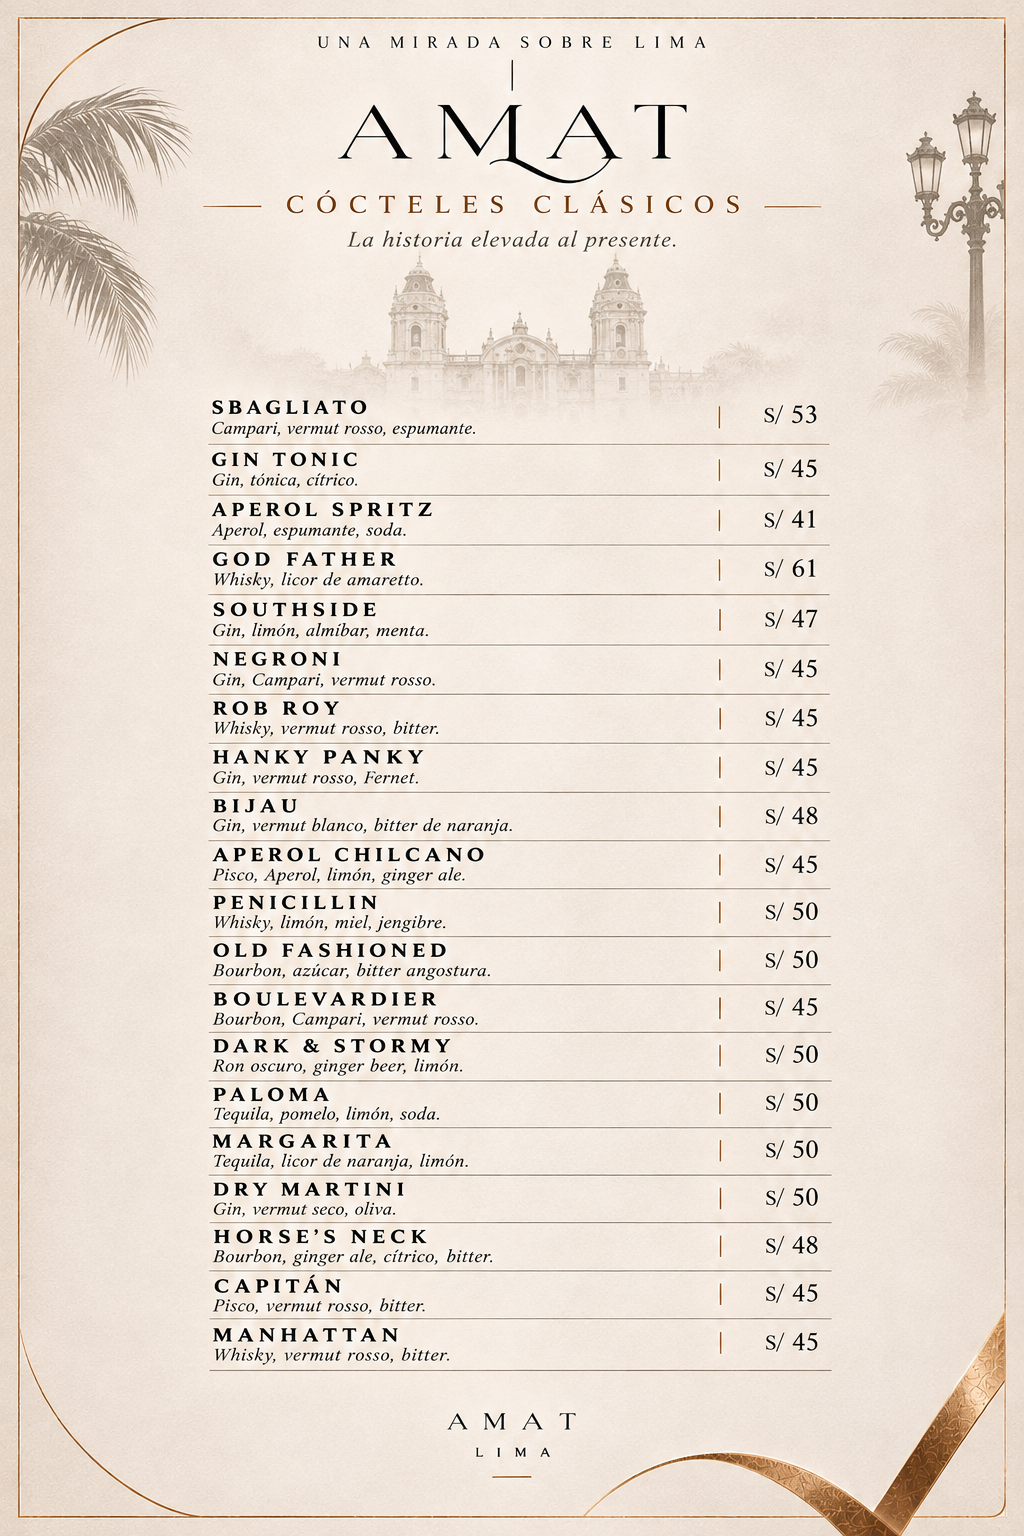
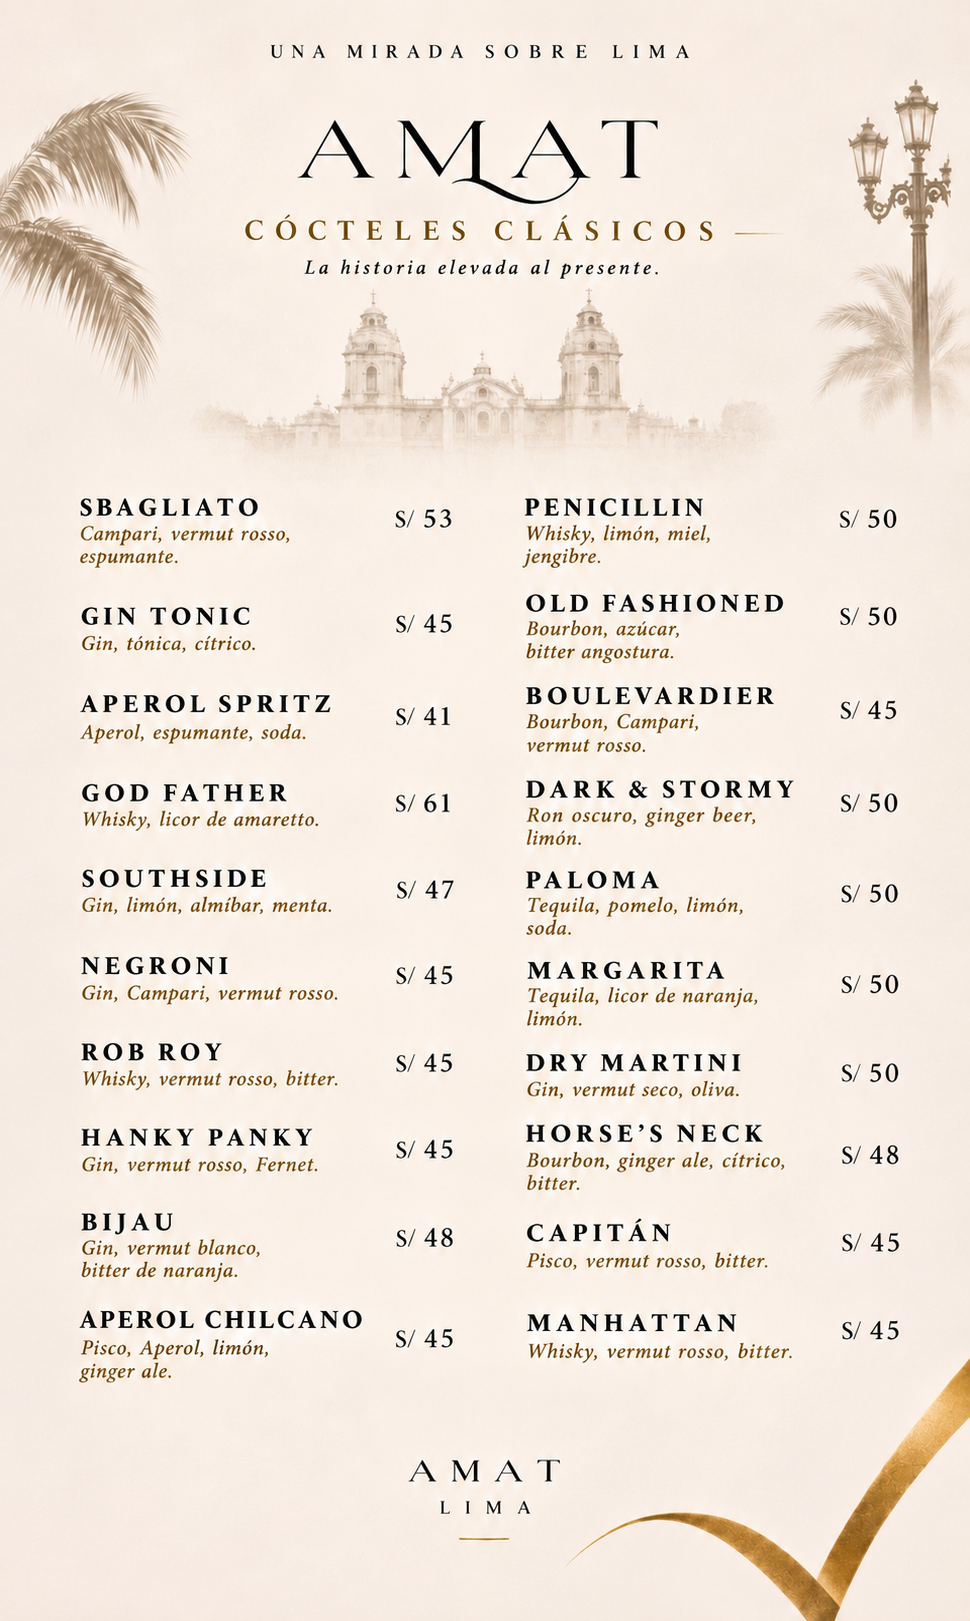
Cartas actualizadas y página única con pestañas
Claude-Session: https://claude.ai/code/session_01MFbuEAzkbLsV6ertVzvqHA

diff --git a/index.html b/index.html
@@ -1,7 +1,79 @@
 <!DOCTYPE html>
-<html lang="es"><head><meta charset="utf-8"><meta name="viewport" content="width=device-width, initial-scale=1">
-<title>Carta</title>
-<style>body{margin:0;background:#f1f0eb;font-family:Georgia,serif;color:#3e3228;text-align:center}
-main{max-width:520px;margin:0 auto;padding:60px 24px}a{display:block;margin:18px 0;padding:18px;border:1px solid #c9b99a;color:#3e3228;text-decoration:none;font-size:20px;letter-spacing:2px}</style>
-</head><body><main><p style="letter-spacing:4px;font-size:13px">UNA MIRADA SOBRE LIMA</p>
-<a href="nikkei/">BARRA NIKKEI</a><a href="fondos/">ENTRADAS Y FONDOS</a><a href="vinos/">VINOS Y ESPUMANTES</a><a href="cocteles/">CÓCTELES CLÁSICOS</a></main></body></html>
+<html lang="es">
+<head>
+<meta charset="utf-8">
+<meta name="viewport" content="width=device-width, initial-scale=1">
+<title>Amat · Carta</title>
+<link rel="preconnect" href="https://fonts.googleapis.com">
+<link rel="preconnect" href="https://fonts.gstatic.com" crossorigin>
+<link href="https://fonts.googleapis.com/css2?family=Cormorant+Garamond:wght@500;600&family=Inter:wght@400;500&display=swap" rel="stylesheet">
+<style>
+  :root{--bg:#f1f0eb;--ink:#3e3228;--gold:#9a7a3e;--line:#d9cfbd}
+  *{box-sizing:border-box}
+  html,body{margin:0;background:var(--bg);color:var(--ink)}
+  header{text-align:center;padding:22px 16px 10px}
+  header .tag{font:500 10px/1 Inter,system-ui,sans-serif;letter-spacing:.42em;color:#6b5a48}
+  header h1{margin:8px 0 0;font:500 42px/1 "Cormorant Garamond",Georgia,serif;letter-spacing:.28em;padding-left:.28em}
+  nav{position:sticky;top:0;z-index:5;background:rgba(241,240,235,.96);backdrop-filter:blur(6px);
+      border-top:1px solid var(--line);border-bottom:1px solid var(--line)}
+  nav .tabs{display:flex;max-width:620px;margin:0 auto;overflow-x:auto;scrollbar-width:none}
+  nav .tabs::-webkit-scrollbar{display:none}
+  nav a{flex:1 0 auto;text-align:center;padding:14px 12px 12px;white-space:nowrap;text-decoration:none;
+        font:500 11px/1 Inter,system-ui,sans-serif;letter-spacing:.14em;text-transform:uppercase;color:#7d6c5a;
+        border-bottom:2px solid transparent}
+  nav a[aria-current="page"]{color:var(--ink);border-bottom-color:var(--gold)}
+  main{max-width:620px;margin:0 auto;padding:12px 0 28px}
+  section{display:none}
+  section.on{display:block}
+  img{display:block;width:100%;height:auto;margin:0 auto 10px}
+  footer{text-align:center;padding:6px 0 26px;font:500 10px/1 Inter,system-ui,sans-serif;letter-spacing:.42em;color:#8a7966}
+</style>
+</head>
+<body>
+<header>
+  <div class="tag">UNA MIRADA SOBRE LIMA</div>
+  <h1>AMAT</h1>
+</header>
+<nav><div class="tabs" role="tablist">
+  <a href="#nikkei" data-t="nikkei">Barra Nikkei</a>
+  <a href="#fondos" data-t="fondos">Entradas y Fondos</a>
+  <a href="#vinos" data-t="vinos">Vinos</a>
+  <a href="#cocteles" data-t="cocteles">Cócteles</a>
+</div></nav>
+<main>
+  <section id="s-nikkei">
+    <img src="nikkei/pagina1.jpg" alt="Barra Nikkei: sashimis, nigiris, tiraditos y makis">
+    <img src="nikkei/pagina2.jpg" alt="Barra Nikkei: makis, postres y panes" loading="lazy">
+  </section>
+  <section id="s-fondos">
+    <img src="fondos/pagina1.jpg" alt="Entradas y fondos" loading="lazy">
+    <img src="fondos/pagina2.jpg" alt="Piqueos" loading="lazy">
+  </section>
+  <section id="s-vinos">
+    <img src="vinos/pagina1.png" alt="Espumantes, vinos blancos, rosados y tintos" loading="lazy">
+    <img src="vinos/pagina2.png" alt="Vinos tintos y alta gama" loading="lazy">
+  </section>
+  <section id="s-cocteles">
+    <img src="cocteles/pagina1.png" alt="Cócteles clásicos" loading="lazy">
+    <img src="cocteles/pagina2.png" alt="Cócteles de autor y mocktails" loading="lazy">
+  </section>
+</main>
+<footer>AMAT · LIMA</footer>
+<script>
+  var ids=["nikkei","fondos","vinos","cocteles"];
+  function show(){
+    var h=(location.hash||"").slice(1); if(ids.indexOf(h)<0) h="nikkei";
+    ids.forEach(function(i){
+      document.getElementById("s-"+i).classList.toggle("on",i===h);
+      var a=document.querySelector('nav a[data-t="'+i+'"]');
+      if(i===h){a.setAttribute("aria-current","page");a.scrollIntoView({inline:"center",block:"nearest"});}
+      else a.removeAttribute("aria-current");
+    });
+  }
+  document.querySelectorAll("nav a").forEach(function(a){
+    a.addEventListener("click",function(e){e.preventDefault();history.replaceState(null,"","#"+a.dataset.t);show();window.scrollTo({top:0});});
+  });
+  window.addEventListener("hashchange",show); show();
+</script>
+</body>
+</html>

diff --git a/vinos/index.html b/vinos/index.html
@@ -1,13 +1,7 @@
 <!DOCTYPE html>
-<html lang="es"><head><meta charset="utf-8">
-<meta name="viewport" content="width=device-width, initial-scale=1">
+<html lang="es"><head><meta charset="utf-8"><meta name="viewport" content="width=device-width, initial-scale=1">
 <title>Carta Vinos y Espumantes</title>
-<style>
- html,body{margin:0;background:#f1f0eb;}
- main{max-width:620px;margin:0 auto;padding:0 0 24px}
- img{display:block;width:100%;height:auto;margin:0 auto 10px;box-shadow:0 1px 6px rgba(0,0,0,.06)}
- h1{position:absolute;left:-9999px}
-</style></head><body><main>
-<h1>Carta Vinos y Espumantes</h1>
-<img src="pagina1.jpg" alt="Vinos y espumantes: espumantes, blancos, rosados y tintos"><img src="pagina2.jpg" alt="Vinos tintos y vinos de alta gama">
+<style>html,body{margin:0;background:#f1f0eb}main{max-width:620px;margin:0 auto;padding:0 0 24px}img{display:block;width:100%;height:auto;margin:0 auto 10px}</style>
+</head><body><main>
+<img src="pagina1.png" alt="Espumantes, vinos blancos, rosados y tintos"><img src="pagina2.png" alt="Vinos tintos y alta gama">
 </main></body></html>

diff --git a/cocteles/index.html b/cocteles/index.html
@@ -1,13 +1,7 @@
 <!DOCTYPE html>
-<html lang="es"><head><meta charset="utf-8">
-<meta name="viewport" content="width=device-width, initial-scale=1">
-<title>Carta Cócteles Clásicos</title>
-<style>
- html,body{margin:0;background:#f1f0eb;}
- main{max-width:620px;margin:0 auto;padding:0 0 24px}
- img{display:block;width:100%;height:auto;margin:0 auto 10px;box-shadow:0 1px 6px rgba(0,0,0,.06)}
- h1{position:absolute;left:-9999px}
-</style></head><body><main>
-<h1>Carta Cócteles Clásicos</h1>
-<img src="pagina1.png" alt="Cócteles clásicos">
+<html lang="es"><head><meta charset="utf-8"><meta name="viewport" content="width=device-width, initial-scale=1">
+<title>Carta Cócteles</title>
+<style>html,body{margin:0;background:#f1f0eb}main{max-width:620px;margin:0 auto;padding:0 0 24px}img{display:block;width:100%;height:auto;margin:0 auto 10px}</style>
+</head><body><main>
+<img src="pagina1.png" alt="Cócteles clásicos"><img src="pagina2.png" alt="Cócteles de autor y mocktails">
 </main></body></html>

diff --git a/nikkei/index.html b/nikkei/index.html
@@ -1,13 +1,7 @@
 <!DOCTYPE html>
-<html lang="es"><head><meta charset="utf-8">
-<meta name="viewport" content="width=device-width, initial-scale=1">
+<html lang="es"><head><meta charset="utf-8"><meta name="viewport" content="width=device-width, initial-scale=1">
 <title>Carta Barra Nikkei</title>
-<style>
- html,body{margin:0;background:#f1f0eb;}
- main{max-width:620px;margin:0 auto;padding:0 0 24px}
- img{display:block;width:100%;height:auto;margin:0 auto 10px;box-shadow:0 1px 6px rgba(0,0,0,.06)}
- h1{position:absolute;left:-9999px}
-</style></head><body><main>
-<h1>Carta Barra Nikkei</h1>
+<style>html,body{margin:0;background:#f1f0eb}main{max-width:620px;margin:0 auto;padding:0 0 24px}img{display:block;width:100%;height:auto;margin:0 auto 10px}</style>
+</head><body><main>
 <img src="pagina1.jpg" alt="Barra Nikkei: sashimis, nigiris, tiraditos y makis"><img src="pagina2.jpg" alt="Barra Nikkei: makis, postres y panes">
 </main></body></html>

diff --git a/fondos/index.html b/fondos/index.html
@@ -1,13 +1,7 @@
 <!DOCTYPE html>
-<html lang="es"><head><meta charset="utf-8">
-<meta name="viewport" content="width=device-width, initial-scale=1">
+<html lang="es"><head><meta charset="utf-8"><meta name="viewport" content="width=device-width, initial-scale=1">
 <title>Carta Entradas y Fondos</title>
-<style>
- html,body{margin:0;background:#f1f0eb;}
- main{max-width:620px;margin:0 auto;padding:0 0 24px}
- img{display:block;width:100%;height:auto;margin:0 auto 10px;box-shadow:0 1px 6px rgba(0,0,0,.06)}
- h1{position:absolute;left:-9999px}
-</style></head><body><main>
-<h1>Carta Entradas y Fondos</h1>
-<img src="pagina1.jpg" alt="Entradas y fondos">
+<style>html,body{margin:0;background:#f1f0eb}main{max-width:620px;margin:0 auto;padding:0 0 24px}img{display:block;width:100%;height:auto;margin:0 auto 10px}</style>
+</head><body><main>
+<img src="pagina1.jpg" alt="Entradas y fondos"><img src="pagina2.jpg" alt="Piqueos">
 </main></body></html>
